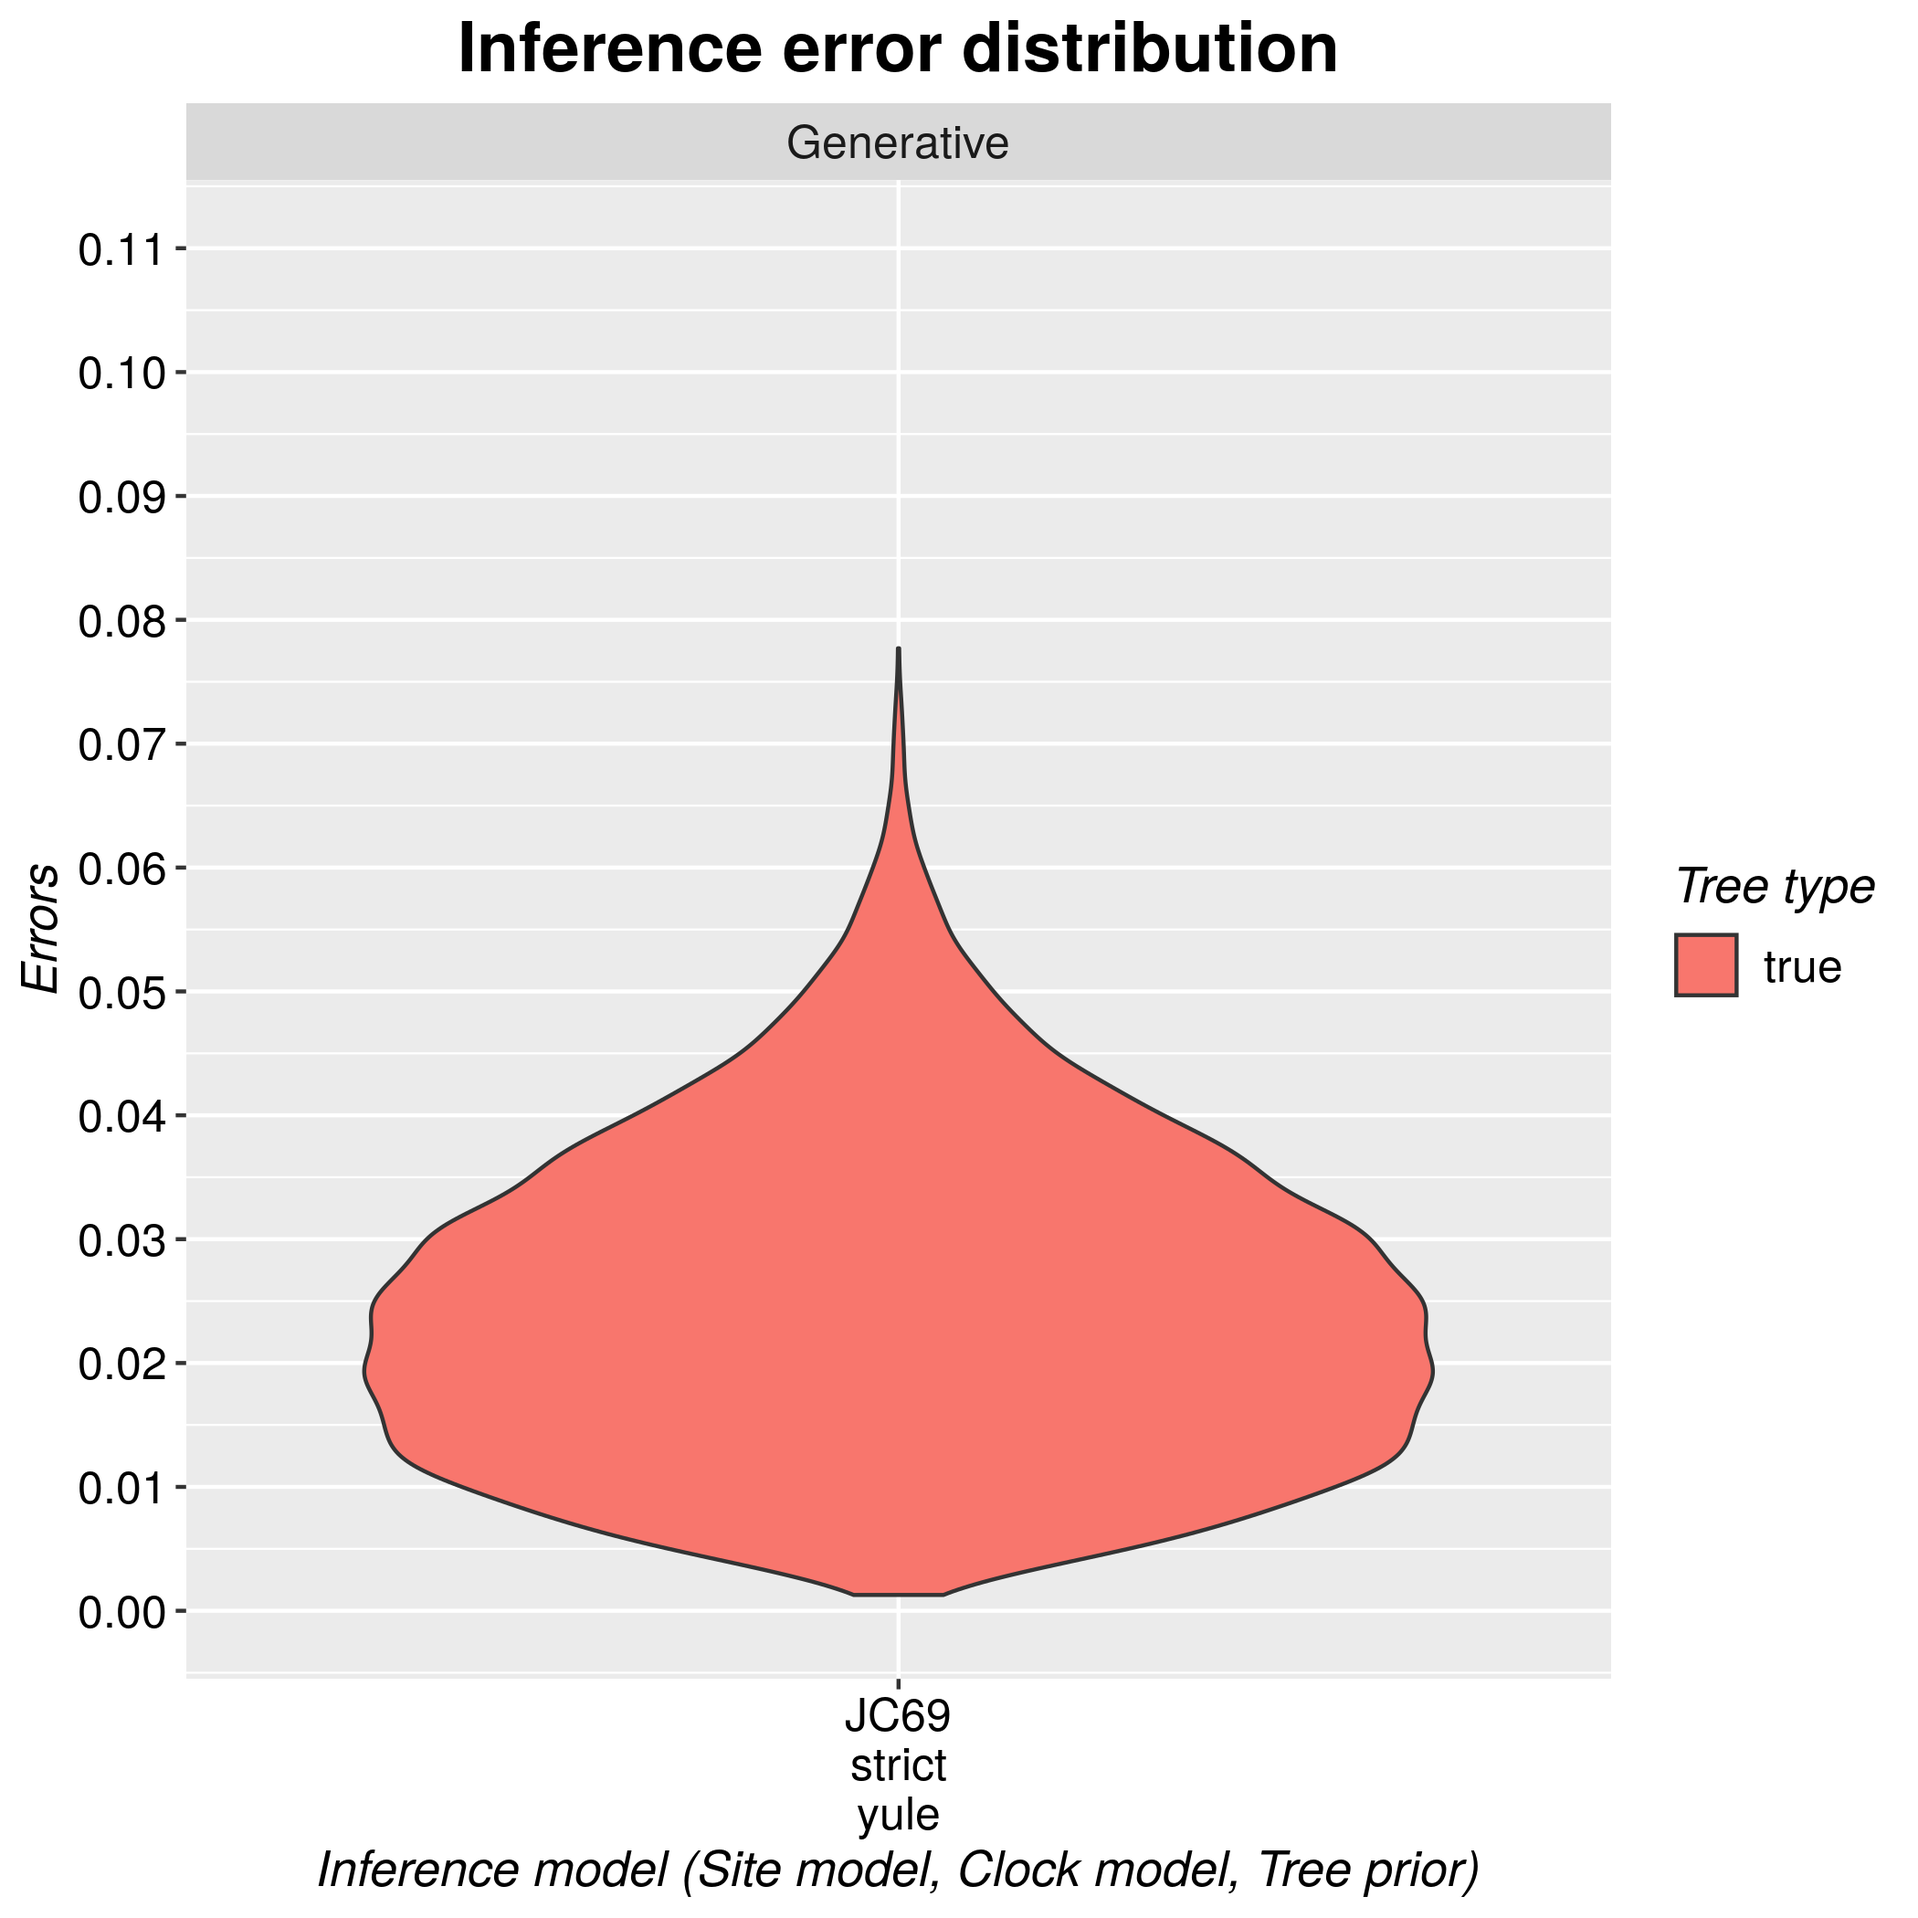
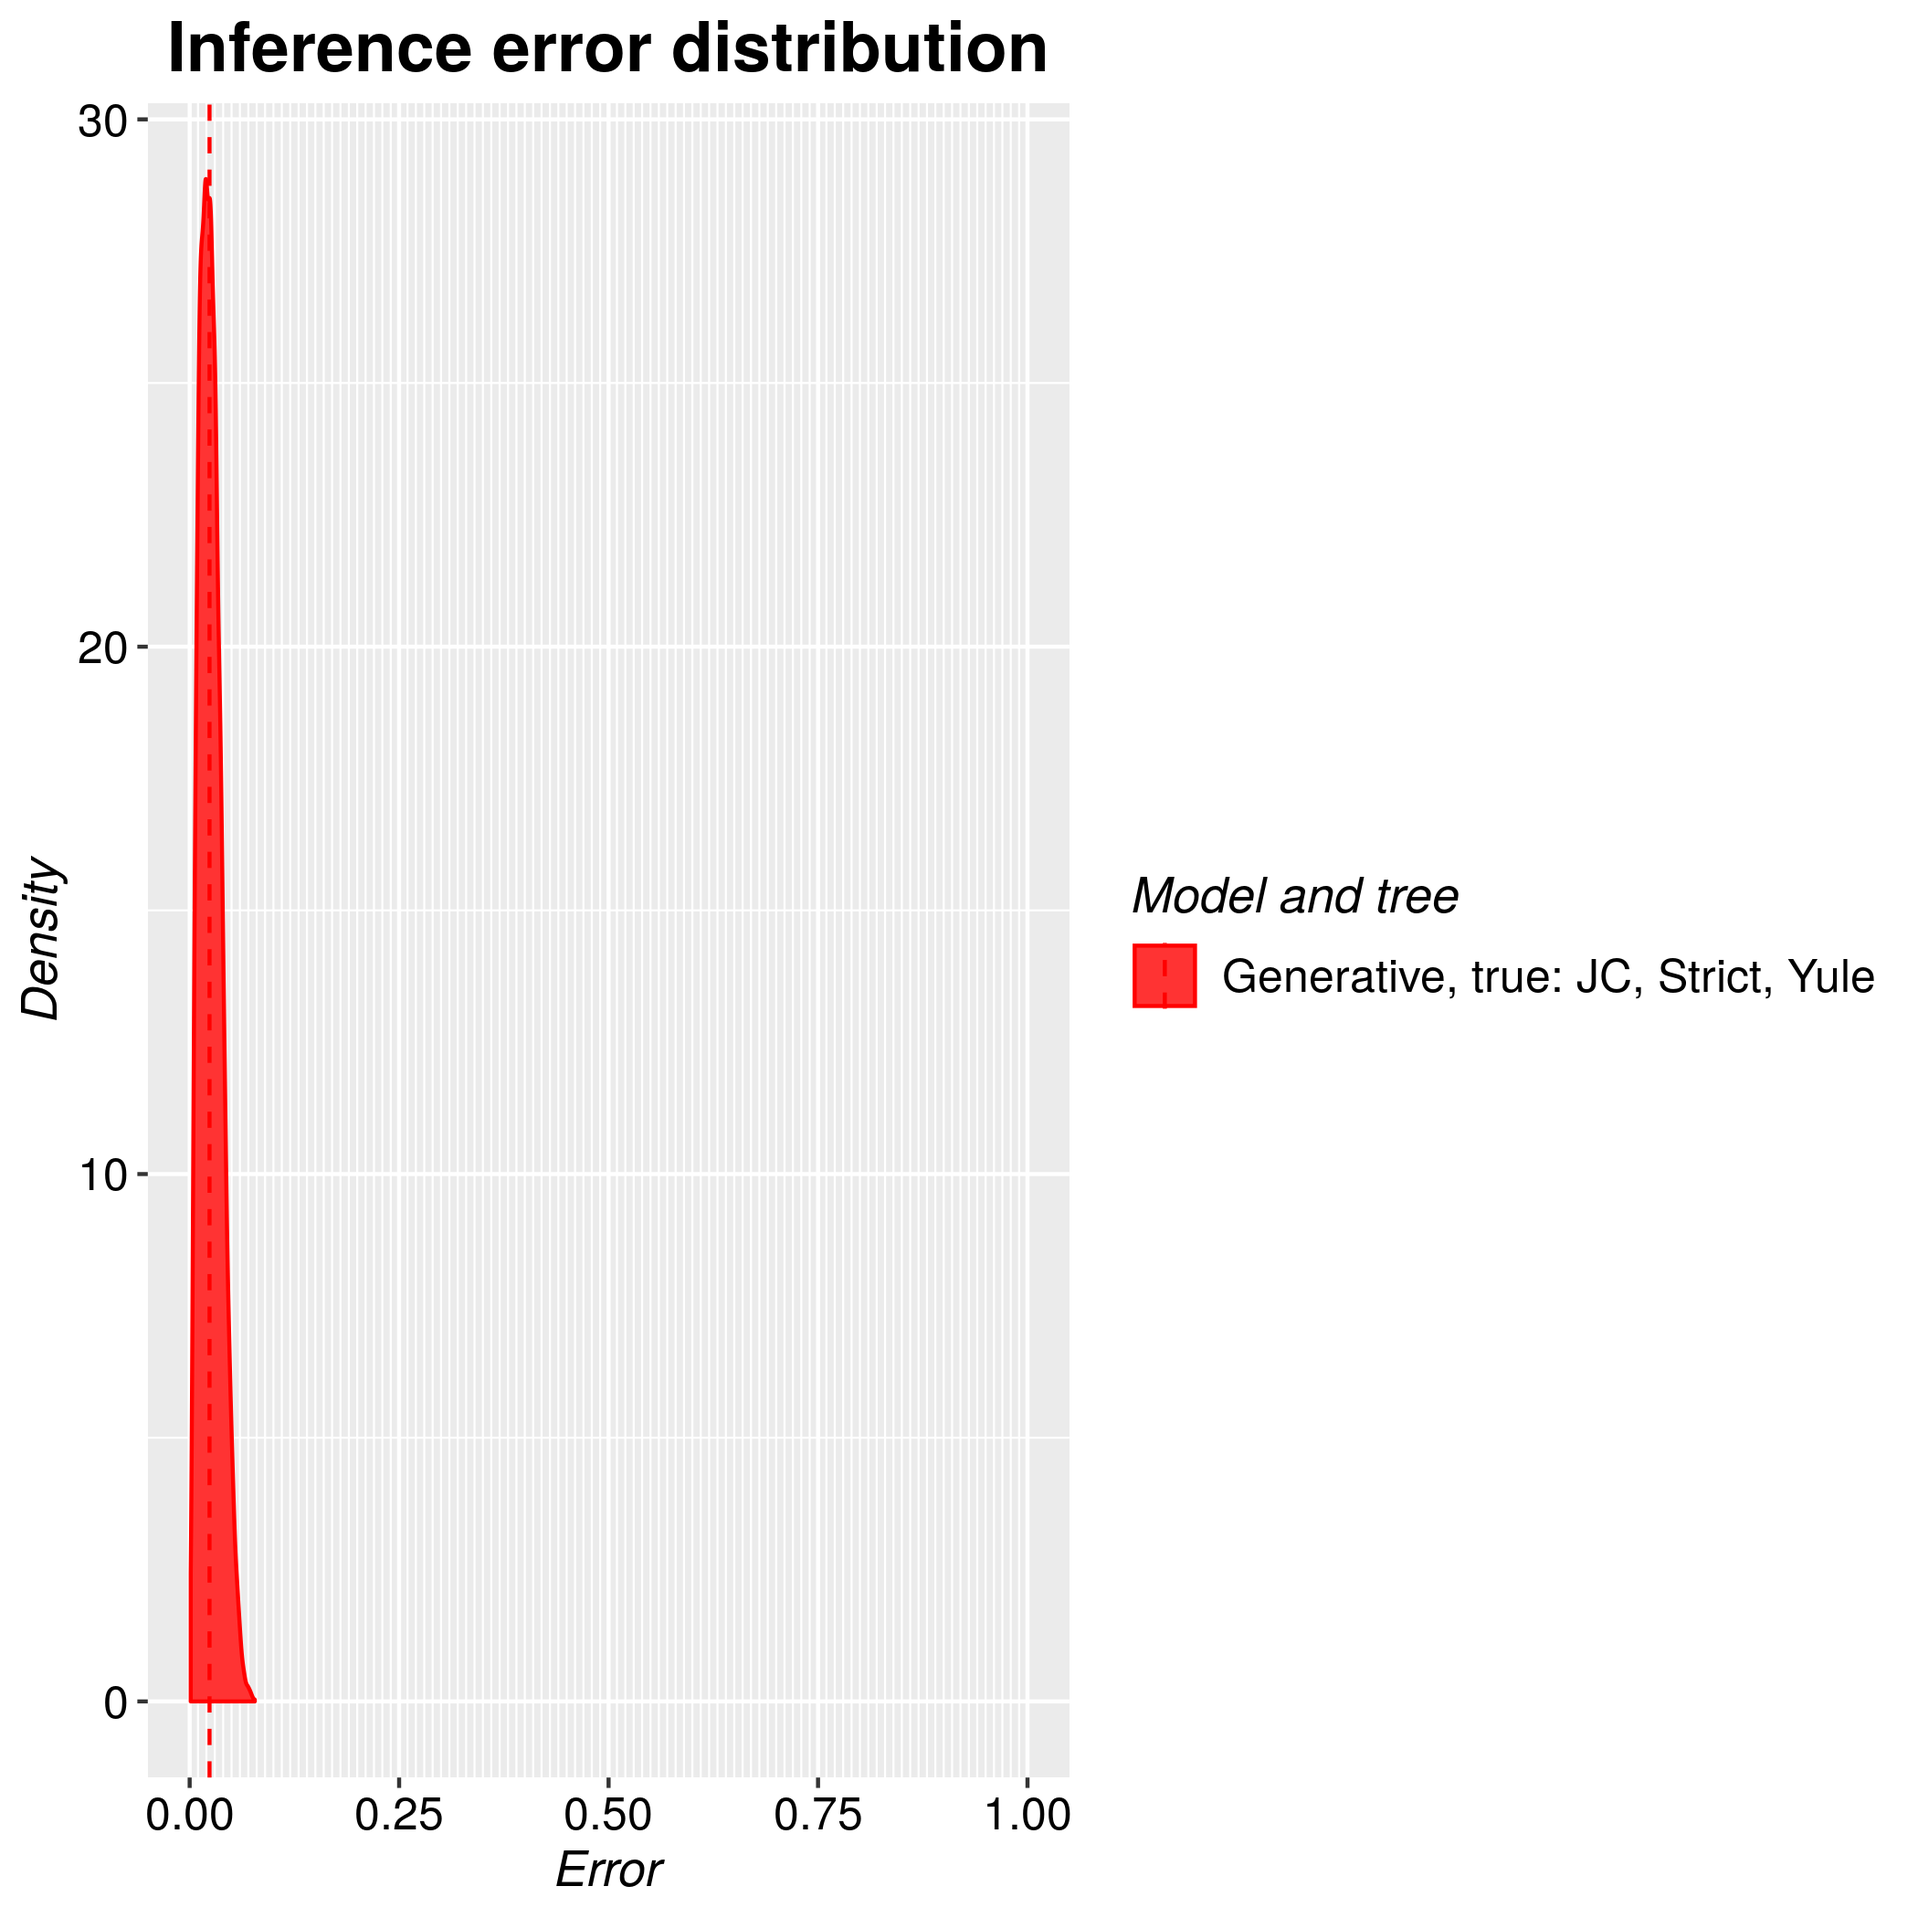
Reviewed ERQs 1 and 2, part of 3

diff --git a/article.tex b/article.tex
@@ -765,7 +765,7 @@ in this case:
 experiments <- list(experiment)
 \end{lstlisting}
 
-The objects we just created need to be bundled
+The objects we just created must be bundled
 in a \verb;pirouette; parameters structure,
 together with error measurement parameters $\mathit{E}$ and
 twinning parameters $\mathit{T}$. 
@@ -786,8 +786,7 @@ error_measure_params <- create_error_measure_params(
 )
 \end{lstlisting}
 
-We will not use twinning
-here yet.  
+We will not use twinning here yet.  
 All these arguments are bundled
 and checked by \verb;create_pir_params;:
 
@@ -819,8 +818,7 @@ errors <- pir_run(
 )
 \end{lstlisting}
 
-The error distribution returned by \verb;pir_run; is a data frame,
-that can be plotted directly using \verb;pir_plot;:
+The error distribution can be plotted directly using \verb;pir_plot;:
 
 \begin{lstlisting}[
   language=R, floatplacement=ht, frame=single,
@@ -833,35 +831,20 @@ pir_plot(errors)
 \begin{figure}[ht]
   \includegraphics[width=\textwidth]{example_1/errors.png}
   \caption{
-    Example 1: the inference error made from a phylogeny 
+    ERQ 1: the inference error made from a phylogeny 
     when the generative and inference model are the same.
+    The vertical dashed line indicates the median error
   }
   \label{fig:example_1}
 \end{figure}
 
-The error distribution obtained is shown as a violin plot
-in figure~\ref{fig:example_1}
-\richel{
-  I suggest to use a histogram (or density plot) instead:
-  I like how the error distribution in figure 1 looks.
-}
-\giovanni{Can we show everything at the same time with standard histograms?}
-. 
-
-This error distribution has little relevance on its own, 
-as we constructed the experiment in such a way $\mathit{I}$ 
-matches with the generative model given by $\mathit{A}$ and $\mathit{P_{0}}$.
-However it will become clear when compared to the errors obtained from a 
-phylogeny 
-derived from a non-standard diversification process $\mathit{P}$.
-
-By doing so, this error distribution will serve as a control,
-as it can be seen as the baseline error caused by stochasticity.
-If the two error distributions obtained from $\mathit{P_{0}}$ and $\mathit{P}$ 
-will appear similar, the error induced by the choice of a non-standard 
-speciation process will be of little influence.
-Given the necessity of such comparison,
-we made it an inherent part of \verb;pirouette;. 
+The resulting error distribution, as shown figure~\ref{fig:example_1}),
+shows the inference error 
+when $\mathit{I}$ matches with the generative model given 
+by $\mathit{A}$ and $\mathit{P_{0}}$.
+This error distribution can serve as a control,
+as it is obtained from a tree of which the tree prior is standard and known.
+Obtaining this control is an inherent part of \verb;pirouette;. 
 We call it 'twinning' and we use it from ERQ 3.
 
 %%%%%%%%%%%%%%%%%%%%%%%%%%%%%%%%%%%%%%%%%%%%%%%%%%%%%%%%%%%%%%%%%%%%%%%%%%%%%%%%
@@ -870,29 +853,21 @@ We call it 'twinning' and we use it from ERQ 3.
 
 In the previous example we selected the inference model $\mathit{I}$ to match 
 with a known generative tree prior $\mathit{P_{0}}$.
-However, a novel tree prior $\mathit{P}$, by definition, is non-standard, thus 
-cannot be part of a standard inference model (i.e. an inference model using a 
-standard tree prior).
-In this case the user has to specify the the tree prior $\mathit{t_{p}}$ to be 
-used in the inference from a list of standard tree priors. In general, having 
-no information on $\mathit{P}$, this choice is arbitrary.
-\verb;pirouette; provides two ways to deal with this problem. The choice can be 
-made specifying the inference conditions $\mathit{C}$ to be used.
-
-If the user has sufficient reasons to believe that one standard tree prior 
-could be more suitable than others for the inference, they can set it as part 
-of the inference model along with site and clock models used to simulate the 
-alignment. This option can be specified selecting "model\_type" to be 
-"generative" as part of the inference conditions (as seen in ERQ 1, 
-table~\ref{tab:RQ1}).
-
-If, instead, there is no preference for a specific tree prior, the user can let 
-\verb;pirouette; select the best inference model from a list of candidate 
-models. The model selection is performed automatically based on the criterion 
-of the highest evidence (also known as marginal likelihood). This option can be specified 
-providing any number of experiments, selecting "model\_type" to be "candidate" 
-for each of them, and "run\_if" to be "best\_candidate" (table~\ref{tab:RQ2} 
-will summarize this for ERQ 2).
+However, a novel tree prior $\mathit{P}$, by our definition, is non-standard, 
+thus cannot be part of a standard inference 
+model (i.e. an inference model using a standard tree prior).
+In such a case, the user has to somehow select 
+a standard tree prior $\mathit{t_{p}}$ to be 
+used in the inference.
+There are two ways to deal with this problem: hand-pick a tree
+prior, or let the best of a set of models be picked. 
+Hand-picking a tree prior can be rational if one standard tree prior 
+is more suitable than others for the inference, for example, when
+the novel tree prior is most similar to a certain tree prior.
+Instead of hand-picking, the best inference model from a list of candidate 
+models can be used in inference.
+\verb;pirouette; selects the 'best' model, that is, 
+the model with the highest evidence (also known as marginal likelihood). 
 
 We show the procedure using \verb;pirouette; to answer the second research 
 question.
@@ -900,7 +875,7 @@ question.
 \subsection{Question}
 
 "What is the inference error made on a novel phylogeny when
-picking the best inference model?"
+using the best inference model?"
 
 \subsection{Answer}
 
@@ -925,7 +900,7 @@ phylogeny  <- ape::read.tree(
   }
 \end{figure}
 
-The first step in \verb;pirouette; is to simulate a DNA alignment from the 
+First step is to simulate a DNA alignment from the 
 given phylogeny. 
 We will re-use the alignment parameters of the previous example 
 as shown in listing~\ref{lst:create_alignment}.
@@ -960,9 +935,9 @@ as shown in listing~\ref{lst:create_alignment}.
 In the second step we set up our experiments. Unlike ERQ 1, here we provide a 
 set of experiments $\{\mathit{X_{i}}\}_{i=1}^{40}$. All the experiments have 
 the same inference conditions $\mathit{C_{i}} = \mathit{C}$ but different 
-candidate inference models $\mathit{I_{i}}$. Yet, only one of them will be used 
+candidate inference models $\mathit{I_{i}}$. Only one of them will be used 
 to run the actual inference. According to the specified $\mathit{C}$, 
-\verb;pirouette; will measure the evidence for each of them and select  only 
+\verb;pirouette; will measure the evidence for each of them and select only 
 the one with the highest evidence as the best candidate.
 
 As model selection is commonly performed on the full list of available candidate models,
@@ -970,8 +945,6 @@ As model selection is commonly performed on the full list of available candidate
 \verb;create_all_experiments; will create the entire set of 40 experiments,
 containing the inference models of all combinations of 4 site 
 models, 2 clock models and 5 tree priors.
-\giovanni{Do we still want to use CBS, CCP and CEP?}
-\richel{Yes, as we don't know anything about the process underlying the tree}
 
 \begin{lstlisting}[
   language=R, 
@@ -1000,8 +973,8 @@ pir_params <- create_pir_params(
 \end{lstlisting}
 
 We run \verb;pirouette; (listing~\ref{lst:pir_run}) 
-and plot the results (listing~\ref{lst:pir_plot}).
-The resulting figure is shown in figure~\ref{fig:example_2}.
+and plot the results (listing~\ref{lst:pir_plot}),
+as shown in figure~\ref{fig:example_2}.
 In this case, the inference model with a JC69 site model, 
 strict clock model and Yule tree prior has the highest likelihood
 amongst all candidates (table \ref{tab:evidences_example_2} shows
@@ -1021,47 +994,39 @@ the evidences).
 \section{Usage: Example Research Question 3}
 %%%%%%%%%%%%%%%%%%%%%%%%%%%%%%%%%%%%%%%%%%%%%%%%%%%%%%%%%%%%%%%%%%%%%%%%%%%%%%%%
 
-In ERQ 1 we measured the baseline error of the \verb;pirouette; method. We did so by using a standard tree prior to generate the original tree as well as in the inference.
-The goal of \verb;pirouette; is to quantify the 
-influence of a new (non-standard) tree prior.
-To do so, we need to compare the inference error 
-from the new tree prior to a baseline error,
+In ERQ 1 we measured the baseline error of the \verb;pirouette; method,
+by using the same standard tree prior in both the generation of 
+the original tree, as well as in the inference.
+This baseline error distribution serves as a control,
+to quantify the impact of a new (non-standard) tree prior.
+To measure that impact, we compare the inference error 
+from the new tree prior to the baseline error,
 by using a twin tree (see subsection~\ref{subsec:twinning}).
-To do so, we use the twin tree as a control for the main pipeline.
-In this example, we have no knowledge of the generative tree prior $\mathit{P}$
-but we know the alignment model $\mathit{A}$.
-In this ERQ it is reasonable to hand-pick a standard tree prior 
-to serve as a stand-in generative tree prior as we assume that they are closely related.
+In this ERQ, we hand-pick a standard tree prior $\mathit{P}$.
 
 \subsection{Question}
 
-"What is the error made by BEAST2 from a phylogeny, 
+"What is the inference error made from a phylogeny, 
 when hand-picking a tree prior, compared to the background noise?"
 
 \subsection{Answer}
 
 Most of the settings for this ERQ are
-the same as in the previous section. They are
-the phylogeny from an unknown speciation model 
-(listing~\ref{lst:unknown_phylogeny}), 
+the same as in ERQ 2: we'll re-use the phylogeny from an 
+unknown speciation model (listing~\ref{lst:unknown_phylogeny}), 
 the alignment parameters (listing~\ref{lst:create_alignment})
 and the list of experiments (listing~\ref{lst:create_generative_experiment}),
 the latter stating that the generative tree prior is a Yule tree prior.
 
-This time, however, we are interested in measuring both the inference error
-and a baseline error. We do so by setting the twinning parameters $\mathit{T}$ to create a twin tree. A twin tree
-has the same topology as the given tree, yet its branching times are simulated 
-according to the standard tree prior used by BEAST2 to produce the posterior 
-for the main pipeline. 
-Since in the twin pipeline there is coherence between the inference model and the generative model, 
-we expect BEAST2 to produce a posterior of phylogenies that are more similar to the 
-original one, respect to the outcome of the main pipeline. 
-Due to this, the twinning process is used to provide a control for the main 
-experiment.
+This time, however, we measure both the baseline and complete inference error.
+We set the twinning parameters $\mathit{T}$ to create a twin tree,
+as described in the 'Twinning' section.
 
-Creating the twinning parameters is easy, as it has sensible default settings.
-For the sake of clarity, we explicitly show the default values of the most
+Creating the twinning parameters is trivial with the default settings.
+For clarity, however, we explicitly show the most
 important arguments:
+
+\richel{hiero!}
 
 \begin{lstlisting}[
   language=R, 
